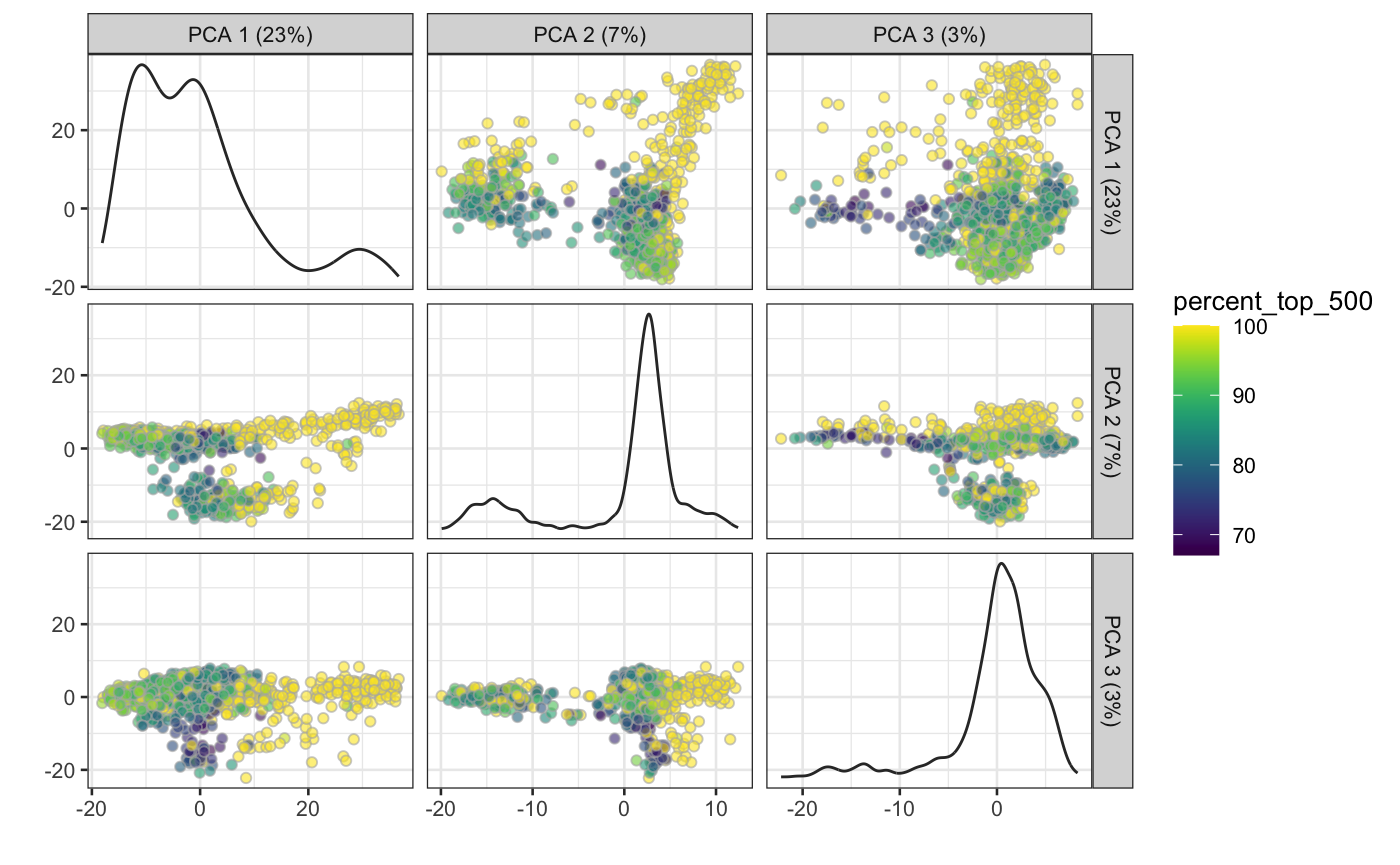
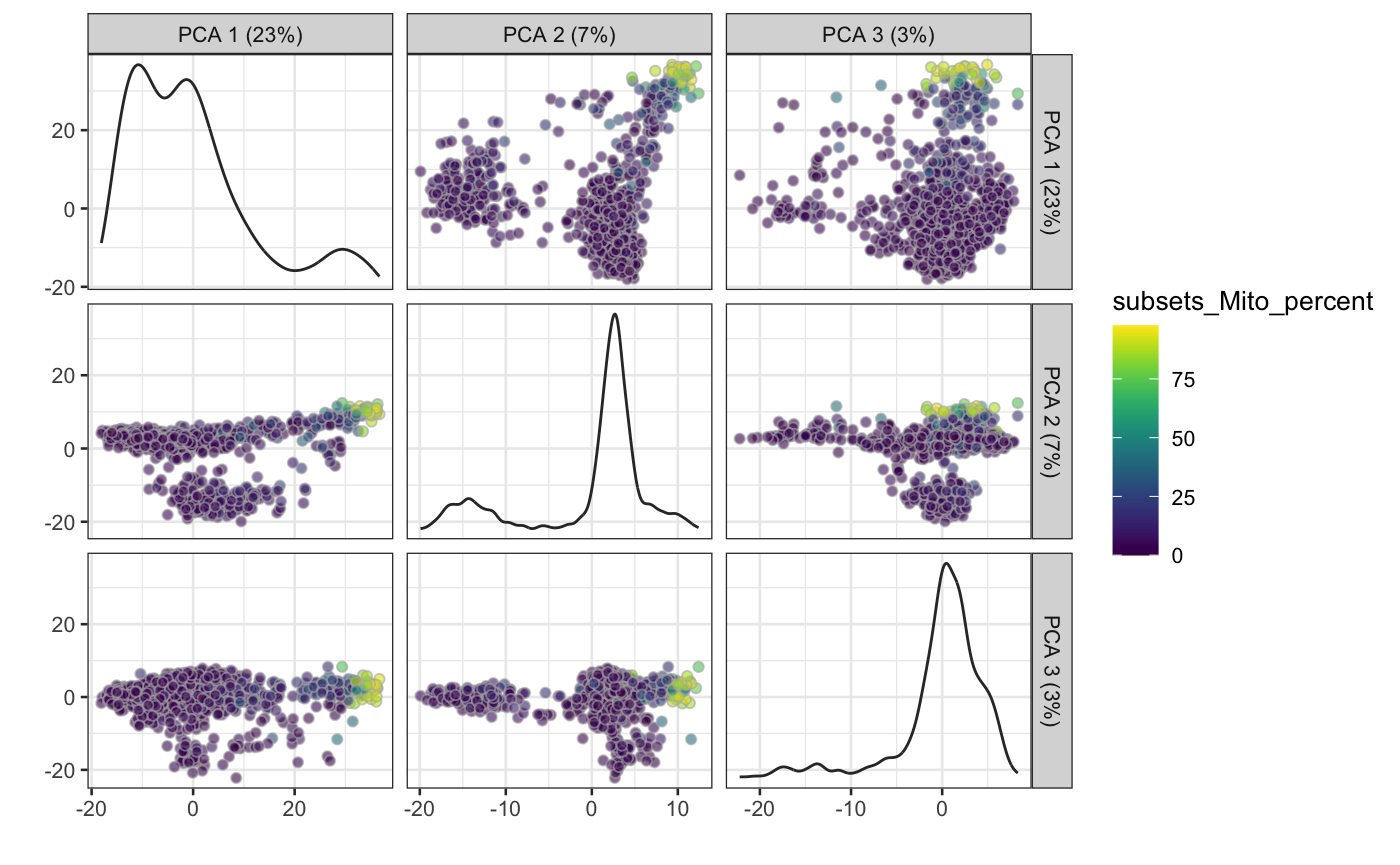
Built site for HCAData: 1.5.1@37fe858

Changed region(s): [[0.0614, 0.0, 0.9829, 0.9364], [0.0614, 0.0312, 0.215, 0.2809], [0.3686, 0.9052, 0.3993, 0.9364]]

diff --git a/articles/hcadata.html b/articles/hcadata.html
@@ -31,7 +31,7 @@
       </button>
       <span class="navbar-brand">
         <a class="navbar-link" href="../index.html">HCAData</a>
-        <span class="version label label-default" data-toggle="tooltip" data-placement="bottom" title="Released version">1.5.0</span>
+        <span class="version label label-default" data-toggle="tooltip" data-placement="bottom" title="Released version">1.5.1</span>
       </span>
     </div>
 
@@ -88,7 +88,7 @@
       Institute of Medical Biostatistics, Epidemiology and Informatics (IMBEI), Mainz<br><a class="author_email" href="mailto:#"></a><a href="mailto:marinif@uni-mainz.de" class="email">marinif@uni-mainz.de</a>
       </address>
                   
-            <h4 class="date">28 May 2020</h4>
+            <h4 class="date">11 June 2020</h4>
       
       <small class="dont-index">Source: <a href="https://github.com/federicomarini/HCAData/blob/master/vignettes/hcadata.Rmd"><code>vignettes/hcadata.Rmd</code></a></small>
       <div class="hidden name"><code>hcadata.Rmd</code></div>
@@ -97,7 +97,7 @@
 
     
     
-<p><strong>Compiled date</strong>: 2020-05-28</p>
+<p><strong>Compiled date</strong>: 2020-06-11</p>
 <p><strong>Last edited</strong>: 2019-05-24</p>
 <p><strong>License</strong>: MIT + file LICENSE</p>
 <div id="introducing-the-hcadata-package" class="section level1">
@@ -126,14 +126,14 @@
 <p>The output is a single <code>SingleCellExperiment</code> object from the <em><a href="https://bioconductor.org/packages/3.12/SingleCellExperiment">SingleCellExperiment</a></em> package.</p>
 <p>Being based on <em><a href="https://bioconductor.org/packages/3.12/ExperimentHub">ExperimentHub</a></em>, the data related to this package can be accessed and queried directly using the package name. Retrieval is then as easy as using their ExperimentHub accession numbers (for the single components of each set), or by using the convenience function provided in this package.</p>
 <div class="sourceCode" id="cb4"><html><body><pre class="r"><span class="fu"><a href="https://rdrr.io/r/base/message.html">suppressPackageStartupMessages</a></span>({
-  <span class="fu"><a href="https://rdrr.io/r/base/library.html">library</a></span>(<span class="no">ExperimentHub</span>)
-  <span class="fu"><a href="https://rdrr.io/r/base/library.html">library</a></span>(<span class="no">SingleCellExperiment</span>)
+  <span class="fu"><a href="https://rdrr.io/r/base/library.html">library</a></span>(<span class="st">"ExperimentHub"</span>)
+  <span class="fu"><a href="https://rdrr.io/r/base/library.html">library</a></span>(<span class="st">"SingleCellExperiment"</span>)
 })
 
 <span class="no">eh</span> <span class="kw">&lt;-</span> <span class="fu"><a href="https://rdrr.io/pkg/ExperimentHub/man/ExperimentHub-class.html">ExperimentHub</a></span>()
 <span class="fu">query</span>(<span class="no">eh</span>, <span class="st">"HCAData"</span>)
 <span class="co">#&gt; ExperimentHub with 6 records</span>
-<span class="co">#&gt; # snapshotDate(): 2020-05-19</span>
+<span class="co">#&gt; # snapshotDate(): 2020-06-11</span>
 <span class="co">#&gt; # $dataprovider: Human Cell Atlas</span>
 <span class="co">#&gt; # $species: Homo sapiens</span>
 <span class="co">#&gt; # $rdataclass: character</span>
@@ -202,22 +202,25 @@
 <a href="#processing-a-subset-of-the-hca-bone-marrow-data" class="anchor"></a>Processing a subset of the HCA bone marrow data</h2>
 <p>For the scope of the vignette, we subset some cells in the bone marrow dataset to reduce the runtime, and apply some of the steps one would ideally follow in analysing droplet based datasets. For more information on how to properly process such datasets, please refer to the amazing set of resources available in the <em><a href="https://bioconductor.org/packages/3.12/simpleSingleCell">simpleSingleCell</a></em> workflow package.</p>
 <p>In brief: we start loading the required libraries for preprocessing, and taking a subset of the bone marrow dataset</p>
-<div class="sourceCode" id="cb5"><html><body><pre class="r"><span class="fu"><a href="https://rdrr.io/r/base/library.html">library</a></span>(<span class="no">scran</span>)
-<span class="fu"><a href="https://rdrr.io/r/base/library.html">library</a></span>(<span class="no">BiocSingular</span>)
-<span class="fu"><a href="https://rdrr.io/r/base/library.html">library</a></span>(<span class="no">scater</span>)
+<div class="sourceCode" id="cb5"><html><body><pre class="r"><span class="fu"><a href="https://rdrr.io/r/base/library.html">library</a></span>(<span class="st">"scran"</span>)
+<span class="fu"><a href="https://rdrr.io/r/base/library.html">library</a></span>(<span class="st">"BiocSingular"</span>)
+<span class="fu"><a href="https://rdrr.io/r/base/library.html">library</a></span>(<span class="st">"scater"</span>)
+<span class="fu"><a href="https://rdrr.io/r/base/library.html">library</a></span>(<span class="st">"scuttle"</span>)
 
 <span class="fu"><a href="https://rdrr.io/r/base/Random.html">set.seed</a></span>(<span class="fl">42</span>)
 <span class="no">sce</span> <span class="kw">&lt;-</span> <span class="no">sce_bonemarrow</span>[, <span class="fu"><a href="https://rdrr.io/r/base/sample.html">sample</a></span>(<span class="fu"><a href="https://rdrr.io/r/base/seq.html">seq_len</a></span>(<span class="fu"><a href="https://rdrr.io/r/base/nrow.html">ncol</a></span>(<span class="no">sce_bonemarrow</span>)), <span class="fl">1000</span>, <span class="kw">replace</span> <span class="kw">=</span> <span class="fl">FALSE</span>)]</pre></body></html></div>
-<p>First, we relabel the rows with the gene symbols for easier reading with the <code><a href="https://rdrr.io/pkg/scater/man/uniquifyFeatureNames.html">uniquifyFeatureNames()</a></code> function from <em><a href="https://bioconductor.org/packages/3.12/scater">scater</a></em>. Then we compute some QC metrics and add these to the original <code>sce</code> object, using <code><a href="https://rdrr.io/pkg/scater/man/addPerCellQC.html">addPerCellQC()</a></code>.</p>
-<div class="sourceCode" id="cb6"><html><body><pre class="r"><span class="fu"><a href="https://rdrr.io/r/base/colnames.html">rownames</a></span>(<span class="no">sce</span>) <span class="kw">&lt;-</span> <span class="fu"><a href="https://rdrr.io/pkg/scater/man/uniquifyFeatureNames.html">uniquifyFeatureNames</a></span>(<span class="fu">rowData</span>(<span class="no">sce</span>)$<span class="no">ID</span>, <span class="fu">rowData</span>(<span class="no">sce</span>)$<span class="no">Symbol</span>)
+<p>First, we relabel the rows with the gene symbols for easier reading with the <code><a href="https://rdrr.io/pkg/scater/man/reexports.html">uniquifyFeatureNames()</a></code> function from <em><a href="https://bioconductor.org/packages/3.12/scater">scater</a></em>. Then we compute some QC metrics and add these to the original <code>sce</code> object, using <code><a href="https://rdrr.io/pkg/scater/man/reexports.html">addPerCellQC()</a></code>.</p>
+<div class="sourceCode" id="cb6"><html><body><pre class="r"><span class="fu"><a href="https://rdrr.io/r/base/colnames.html">rownames</a></span>(<span class="no">sce</span>) <span class="kw">&lt;-</span> <span class="fu"><a href="https://rdrr.io/pkg/scater/man/reexports.html">uniquifyFeatureNames</a></span>(<span class="fu">rowData</span>(<span class="no">sce</span>)$<span class="no">ID</span>, <span class="fu">rowData</span>(<span class="no">sce</span>)$<span class="no">Symbol</span>)
 <span class="fu"><a href="https://rdrr.io/r/utils/head.html">head</a></span>(<span class="fu"><a href="https://rdrr.io/r/base/colnames.html">rownames</a></span>(<span class="no">sce</span>))
 <span class="co">#&gt; [1] "RP11-34P13.3"  "FAM138A"       "OR4F5"         "RP11-34P13.7" </span>
 <span class="co">#&gt; [5] "RP11-34P13.8"  "RP11-34P13.14"</span>
 
+<span class="no">is.mito</span> <span class="kw">&lt;-</span> <span class="fu"><a href="https://rdrr.io/r/base/grep.html">grep</a></span>(<span class="st">"MT-"</span>, <span class="fu"><a href="https://rdrr.io/r/base/colnames.html">rownames</a></span>(<span class="no">sce</span>))
+
 <span class="fu"><a href="https://rdrr.io/pkg/SingleCellExperiment/man/assays.html">counts</a></span>(<span class="no">sce</span>) <span class="kw">&lt;-</span> <span class="fu"><a href="https://rdrr.io/r/base/matrix.html">as.matrix</a></span>(<span class="fu"><a href="https://rdrr.io/pkg/SingleCellExperiment/man/assays.html">counts</a></span>(<span class="no">sce</span>))
-<span class="no">sce</span> <span class="kw">&lt;-</span> <span class="kw pkg">scater</span><span class="kw ns">::</span><span class="fu"><a href="https://rdrr.io/pkg/scater/man/addPerCellQC.html">addPerCellQC</a></span>(<span class="no">sce</span>)</pre></body></html></div>
+<span class="no">sce</span> <span class="kw">&lt;-</span> <span class="kw pkg">scuttle</span><span class="kw ns">::</span><span class="fu"><a href="https://rdrr.io/pkg/scuttle/man/addPerCellQC.html">addPerCellQC</a></span>(<span class="no">sce</span>, <span class="kw">subsets</span><span class="kw">=</span><span class="fu"><a href="https://rdrr.io/r/base/list.html">list</a></span>(<span class="kw">Mito</span><span class="kw">=</span><span class="no">is.mito</span>))</pre></body></html></div>
 <p>We proceed with normalization, performed with the deconvolution method implemented in <em><a href="https://bioconductor.org/packages/3.12/scran">scran</a></em> - a pre-clustering step is done in advance, to avoid pooling cells that are very different between each other.</p>
-<div class="sourceCode" id="cb7"><html><body><pre class="r"><span class="no">lib.sf.bonemarrow</span> <span class="kw">&lt;-</span> <span class="fu"><a href="https://rdrr.io/pkg/scater/man/librarySizeFactors.html">librarySizeFactors</a></span>(<span class="no">sce</span>)
+<div class="sourceCode" id="cb7"><html><body><pre class="r"><span class="no">lib.sf.bonemarrow</span> <span class="kw">&lt;-</span> <span class="fu"><a href="https://rdrr.io/pkg/scater/man/reexports.html">librarySizeFactors</a></span>(<span class="no">sce</span>)
 <span class="fu"><a href="https://rdrr.io/r/base/summary.html">summary</a></span>(<span class="no">lib.sf.bonemarrow</span>)
 <span class="co">#&gt;    Min. 1st Qu.  Median    Mean 3rd Qu.    Max. </span>
 <span class="co">#&gt;  0.0157  0.3407  0.6291  1.0000  0.9087 18.0304</span>
@@ -229,7 +232,7 @@
 <span class="co">#&gt;   1   2   3   4   5 </span>
 <span class="co">#&gt; 137 232 207 239 185</span>
 <span class="no">sce</span> <span class="kw">&lt;-</span> <span class="fu"><a href="https://rdrr.io/pkg/scran/man/computeSumFactors.html">computeSumFactors</a></span>(<span class="no">sce</span>, <span class="kw">min.mean</span><span class="kw">=</span><span class="fl">0.1</span>, <span class="kw">cluster</span><span class="kw">=</span><span class="no">clusters</span>)
-<span class="no">sce</span> <span class="kw">&lt;-</span> <span class="fu"><a href="https://rdrr.io/pkg/scater/man/logNormCounts.html">logNormCounts</a></span>(<span class="no">sce</span>)
+<span class="no">sce</span> <span class="kw">&lt;-</span> <span class="fu"><a href="https://rdrr.io/pkg/scater/man/reexports.html">logNormCounts</a></span>(<span class="no">sce</span>)
 <span class="fu">assayNames</span>(<span class="no">sce</span>)
 <span class="co">#&gt; [1] "counts"    "logcounts"</span></pre></body></html></div>
 <p>In the following lines of code, we model the mean-variance trend (with technical noise as Poisson), to extract the biological component of the variance for the genes under inspection.</p>
@@ -258,19 +261,22 @@
 <div class="sourceCode" id="cb10"><html><body><pre class="r"><span class="no">hvg.bonemarrow</span> <span class="kw">&lt;-</span> <span class="fu"><a href="https://rdrr.io/pkg/scran/man/getTopHVGs.html">getTopHVGs</a></span>(<span class="no">dec.bonemarrow</span>, <span class="kw">prop</span> <span class="kw">=</span> <span class="fl">0.1</span>)
 
 <span class="fu"><a href="https://rdrr.io/r/base/Random.html">set.seed</a></span>(<span class="fl">42</span>)
-<span class="no">sce</span> <span class="kw">&lt;-</span> <span class="fu"><a href="https://rdrr.io/pkg/scran/man/denoisePCA.html">denoisePCA</a></span>(<span class="no">sce</span>, <span class="kw">technical</span><span class="kw">=</span><span class="no">dec.bonemarrow</span>, <span class="kw">subset.row</span> <span class="kw">=</span> <span class="no">hvg.bonemarrow</span>, <span class="kw">BSPARAM</span><span class="kw">=</span><span class="fu"><a href="https://rdrr.io/pkg/BiocSingular/man/BiocSingularParam.html">IrlbaParam</a></span>())
+<span class="no">sce</span> <span class="kw">&lt;-</span> <span class="fu"><a href="https://rdrr.io/pkg/scran/man/denoisePCA.html">denoisePCA</a></span>(<span class="no">sce</span>,
+                  <span class="kw">technical</span><span class="kw">=</span><span class="no">dec.bonemarrow</span>,
+                  <span class="kw">subset.row</span> <span class="kw">=</span> <span class="no">hvg.bonemarrow</span>,
+                  <span class="kw">BSPARAM</span><span class="kw">=</span><span class="fu"><a href="https://rdrr.io/pkg/BiocSingular/man/BiocSingularParam.html">IrlbaParam</a></span>())
 <span class="fu"><a href="https://rdrr.io/r/base/nrow.html">ncol</a></span>(<span class="fu"><a href="https://rdrr.io/pkg/SingleCellExperiment/man/reducedDims.html">reducedDim</a></span>(<span class="no">sce</span>, <span class="st">"PCA"</span>))
 <span class="co">#&gt; [1] 5</span>
 <span class="fu"><a href="https://rdrr.io/r/base/plot.html">plot</a></span>(<span class="fu"><a href="https://rdrr.io/r/base/attr.html">attr</a></span>(<span class="fu"><a href="https://rdrr.io/pkg/SingleCellExperiment/man/reducedDims.html">reducedDim</a></span>(<span class="no">sce</span>), <span class="st">"percentVar"</span>), <span class="kw">xlab</span><span class="kw">=</span><span class="st">"PC"</span>,
      <span class="kw">ylab</span><span class="kw">=</span><span class="st">"Proportion of variance explained"</span>)
 <span class="fu"><a href="https://rdrr.io/r/graphics/abline.html">abline</a></span>(<span class="kw">v</span><span class="kw">=</span><span class="fu"><a href="https://rdrr.io/r/base/nrow.html">ncol</a></span>(<span class="fu"><a href="https://rdrr.io/pkg/SingleCellExperiment/man/reducedDims.html">reducedDim</a></span>(<span class="no">sce</span>, <span class="st">"PCA"</span>)), <span class="kw">lty</span><span class="kw">=</span><span class="fl">2</span>, <span class="kw">col</span><span class="kw">=</span><span class="st">"red"</span>)</pre></body></html></div>
 <p><img src="hcadata_files/figure-html/dimred-1.png" width="700"></p>
-<div class="sourceCode" id="cb11"><html><body><pre class="r"><span class="fu"><a href="https://rdrr.io/pkg/scater/man/plot_reddim.html">plotPCA</a></span>(<span class="no">sce</span>, <span class="kw">ncomponents</span><span class="kw">=</span><span class="fl">3</span>, <span class="kw">colour_by</span><span class="kw">=</span><span class="st">"percent_top_500"</span>)</pre></body></html></div>
+<div class="sourceCode" id="cb11"><html><body><pre class="r"><span class="fu"><a href="https://rdrr.io/pkg/scater/man/plot_reddim.html">plotPCA</a></span>(<span class="no">sce</span>, <span class="kw">ncomponents</span><span class="kw">=</span><span class="fl">3</span>, <span class="kw">colour_by</span><span class="kw">=</span><span class="st">"subsets_Mito_percent"</span>)</pre></body></html></div>
 <p><img src="hcadata_files/figure-html/dimred-2.png" width="700"></p>
 <div class="sourceCode" id="cb12"><html><body><pre class="r">
 <span class="fu"><a href="https://rdrr.io/r/base/Random.html">set.seed</a></span>(<span class="fl">42</span>)
 <span class="no">sce</span> <span class="kw">&lt;-</span> <span class="fu"><a href="https://rdrr.io/pkg/scater/man/runTSNE.html">runTSNE</a></span>(<span class="no">sce</span>, <span class="kw">dimred</span><span class="kw">=</span><span class="st">"PCA"</span>, <span class="kw">perplexity</span><span class="kw">=</span><span class="fl">30</span>)
-<span class="fu"><a href="https://rdrr.io/pkg/scater/man/plot_reddim.html">plotTSNE</a></span>(<span class="no">sce</span>, <span class="kw">colour_by</span><span class="kw">=</span><span class="st">"percent_top_500"</span>)</pre></body></html></div>
+<span class="fu"><a href="https://rdrr.io/pkg/scater/man/plot_reddim.html">plotTSNE</a></span>(<span class="no">sce</span>, <span class="kw">colour_by</span><span class="kw">=</span><span class="st">"subsets_Mito_percent"</span>)</pre></body></html></div>
 <p><img src="hcadata_files/figure-html/dimred-3.png" width="700"></p>
 <p>After this, we can compute a shared nearest neighbour graph to identify clusters in our dataset. Once the cluster memberships are defined, we assign this vector to a corresponding <code>colData</code> slot, and plot the t-SNE for our subset, coloured accordingly.</p>
 <div class="sourceCode" id="cb13"><html><body><pre class="r"><span class="no">snn.gr</span> <span class="kw">&lt;-</span> <span class="fu"><a href="https://rdrr.io/pkg/scran/man/buildSNNGraph.html">buildSNNGraph</a></span>(<span class="no">sce</span>, <span class="kw">use.dimred</span><span class="kw">=</span><span class="st">"PCA"</span>)
@@ -308,7 +314,7 @@
 <div class="sourceCode" id="cb16"><html><body><pre class="r"><span class="fu"><a href="https://rdrr.io/r/utils/sessionInfo.html">sessionInfo</a></span>()
 <span class="co">#&gt; R version 4.0.0 (2020-04-24)</span>
 <span class="co">#&gt; Platform: x86_64-apple-darwin17.0 (64-bit)</span>
-<span class="co">#&gt; Running under: macOS Catalina 10.15.4</span>
+<span class="co">#&gt; Running under: macOS Catalina 10.15.5</span>
 <span class="co">#&gt; </span>
 <span class="co">#&gt; Matrix products: default</span>
 <span class="co">#&gt; BLAS:   /Library/Frameworks/R.framework/Versions/4.0/Resources/lib/libRblas.dylib</span>
@@ -322,17 +328,18 @@
 <span class="co">#&gt; [8] methods   base     </span>
 <span class="co">#&gt; </span>
 <span class="co">#&gt; other attached packages:</span>
-<span class="co">#&gt;  [1] scater_1.17.0               ggplot2_3.3.0              </span>
-<span class="co">#&gt;  [3] BiocSingular_1.5.0          scran_1.17.0               </span>
-<span class="co">#&gt;  [5] rhdf5_2.33.0                ExperimentHub_1.15.0       </span>
-<span class="co">#&gt;  [7] AnnotationHub_2.21.0        BiocFileCache_1.13.0       </span>
-<span class="co">#&gt;  [9] dbplyr_1.4.4                HCAData_1.5.0              </span>
-<span class="co">#&gt; [11] SingleCellExperiment_1.11.1 SummarizedExperiment_1.19.4</span>
-<span class="co">#&gt; [13] DelayedArray_0.15.1         matrixStats_0.56.0         </span>
-<span class="co">#&gt; [15] Biobase_2.49.0              GenomicRanges_1.41.1       </span>
-<span class="co">#&gt; [17] GenomeInfoDb_1.25.0         IRanges_2.23.5             </span>
-<span class="co">#&gt; [19] S4Vectors_0.27.8            BiocGenerics_0.35.2        </span>
-<span class="co">#&gt; [21] BiocStyle_2.17.0           </span>
+<span class="co">#&gt;  [1] scuttle_0.99.9              scater_1.17.2              </span>
+<span class="co">#&gt;  [3] ggplot2_3.3.1               BiocSingular_1.5.0         </span>
+<span class="co">#&gt;  [5] scran_1.17.1                rhdf5_2.33.3               </span>
+<span class="co">#&gt;  [7] ExperimentHub_1.15.0        AnnotationHub_2.21.0       </span>
+<span class="co">#&gt;  [9] BiocFileCache_1.13.0        dbplyr_1.4.4               </span>
+<span class="co">#&gt; [11] HCAData_1.5.1               SingleCellExperiment_1.11.4</span>
+<span class="co">#&gt; [13] SummarizedExperiment_1.19.5 DelayedArray_0.15.3        </span>
+<span class="co">#&gt; [15] matrixStats_0.56.0          Matrix_1.2-18              </span>
+<span class="co">#&gt; [17] Biobase_2.49.0              GenomicRanges_1.41.5       </span>
+<span class="co">#&gt; [19] GenomeInfoDb_1.25.1         IRanges_2.23.9             </span>
+<span class="co">#&gt; [21] S4Vectors_0.27.12           BiocGenerics_0.35.4        </span>
+<span class="co">#&gt; [23] BiocStyle_2.17.0           </span>
 <span class="co">#&gt; </span>
 <span class="co">#&gt; loaded via a namespace (and not attached):</span>
 <span class="co">#&gt;  [1] bitops_1.0-6                  fs_1.4.1                     </span>
@@ -340,46 +347,46 @@
 <span class="co">#&gt;  [5] rprojroot_1.3-2               tools_4.0.0                  </span>
 <span class="co">#&gt;  [7] backports_1.1.7               R6_2.4.1                     </span>
 <span class="co">#&gt;  [9] irlba_2.3.3                   vipor_0.4.5                  </span>
-<span class="co">#&gt; [11] HDF5Array_1.17.0              colorspace_1.4-1             </span>
-<span class="co">#&gt; [13] DBI_1.1.0                     withr_2.2.0                  </span>
-<span class="co">#&gt; [15] gridExtra_2.3                 tidyselect_1.1.0             </span>
-<span class="co">#&gt; [17] bit_1.1-15.2                  curl_4.3                     </span>
-<span class="co">#&gt; [19] compiler_4.0.0                BiocNeighbors_1.7.0          </span>
-<span class="co">#&gt; [21] desc_1.2.0                    labeling_0.3                 </span>
-<span class="co">#&gt; [23] bookdown_0.19                 scales_1.1.1                 </span>
-<span class="co">#&gt; [25] rappdirs_0.3.1                pkgdown_1.5.1.9000           </span>
-<span class="co">#&gt; [27] stringr_1.4.0                 digest_0.6.25                </span>
-<span class="co">#&gt; [29] rmarkdown_2.1                 XVector_0.29.1               </span>
-<span class="co">#&gt; [31] pkgconfig_2.0.3               htmltools_0.4.0              </span>
-<span class="co">#&gt; [33] fastmap_1.0.1                 limma_3.45.0                 </span>
-<span class="co">#&gt; [35] rlang_0.4.6                   RSQLite_2.2.0                </span>
-<span class="co">#&gt; [37] shiny_1.4.0.2                 DelayedMatrixStats_1.11.0    </span>
-<span class="co">#&gt; [39] farver_2.0.3                  BiocParallel_1.23.0          </span>
-<span class="co">#&gt; [41] dplyr_0.8.5                   RCurl_1.98-1.2               </span>
-<span class="co">#&gt; [43] magrittr_1.5                  GenomeInfoDbData_1.2.3       </span>
-<span class="co">#&gt; [45] Matrix_1.2-18                 munsell_0.5.0                </span>
-<span class="co">#&gt; [47] ggbeeswarm_0.6.0              Rcpp_1.0.4.6                 </span>
-<span class="co">#&gt; [49] Rhdf5lib_1.11.0               viridis_0.5.1                </span>
-<span class="co">#&gt; [51] lifecycle_0.2.0               stringi_1.4.6                </span>
-<span class="co">#&gt; [53] yaml_2.2.1                    edgeR_3.31.0                 </span>
-<span class="co">#&gt; [55] MASS_7.3-51.5                 zlibbioc_1.35.0              </span>
-<span class="co">#&gt; [57] Rtsne_0.15                    grid_4.0.0                   </span>
-<span class="co">#&gt; [59] blob_1.2.1                    promises_1.1.0               </span>
-<span class="co">#&gt; [61] dqrng_0.2.1                   crayon_1.3.4                 </span>
-<span class="co">#&gt; [63] lattice_0.20-41               locfit_1.5-9.4               </span>
-<span class="co">#&gt; [65] knitr_1.28                    pillar_1.4.4                 </span>
-<span class="co">#&gt; [67] igraph_1.2.5                  glue_1.4.1                   </span>
-<span class="co">#&gt; [69] BiocVersion_3.12.0            evaluate_0.14                </span>
-<span class="co">#&gt; [71] BiocManager_1.30.10           vctrs_0.3.0                  </span>
-<span class="co">#&gt; [73] httpuv_1.5.3.1                gtable_0.3.0                 </span>
-<span class="co">#&gt; [75] purrr_0.3.4                   assertthat_0.2.1             </span>
-<span class="co">#&gt; [77] xfun_0.14                     rsvd_1.0.3                   </span>
-<span class="co">#&gt; [79] mime_0.9                      xtable_1.8-4                 </span>
-<span class="co">#&gt; [81] later_1.0.0                   viridisLite_0.3.0            </span>
-<span class="co">#&gt; [83] tibble_3.0.1                  beeswarm_0.2.3               </span>
-<span class="co">#&gt; [85] AnnotationDbi_1.51.0          memoise_1.1.0                </span>
-<span class="co">#&gt; [87] statmod_1.4.34                ellipsis_0.3.1               </span>
-<span class="co">#&gt; [89] interactiveDisplayBase_1.27.2</span></pre></body></html></div>
+<span class="co">#&gt; [11] HDF5Array_1.17.1              colorspace_1.4-1             </span>
+<span class="co">#&gt; [13] DBI_1.1.0                     rhdf5filters_1.1.0           </span>
+<span class="co">#&gt; [15] withr_2.2.0                   gridExtra_2.3                </span>
+<span class="co">#&gt; [17] tidyselect_1.1.0              bit_1.1-15.2                 </span>
+<span class="co">#&gt; [19] curl_4.3                      compiler_4.0.0               </span>
+<span class="co">#&gt; [21] BiocNeighbors_1.7.0           desc_1.2.0                   </span>
+<span class="co">#&gt; [23] labeling_0.3                  bookdown_0.19                </span>
+<span class="co">#&gt; [25] scales_1.1.1                  rappdirs_0.3.1               </span>
+<span class="co">#&gt; [27] pkgdown_1.5.1.9000            stringr_1.4.0                </span>
+<span class="co">#&gt; [29] digest_0.6.25                 rmarkdown_2.2                </span>
+<span class="co">#&gt; [31] XVector_0.29.2                pkgconfig_2.0.3              </span>
+<span class="co">#&gt; [33] htmltools_0.4.0               fastmap_1.0.1                </span>
+<span class="co">#&gt; [35] limma_3.45.6                  rlang_0.4.6                  </span>
+<span class="co">#&gt; [37] RSQLite_2.2.0                 shiny_1.4.0.2                </span>
+<span class="co">#&gt; [39] DelayedMatrixStats_1.11.0     farver_2.0.3                 </span>
+<span class="co">#&gt; [41] generics_0.0.2                BiocParallel_1.23.0          </span>
+<span class="co">#&gt; [43] dplyr_1.0.0                   RCurl_1.98-1.2               </span>
+<span class="co">#&gt; [45] magrittr_1.5                  GenomeInfoDbData_1.2.3       </span>
+<span class="co">#&gt; [47] ggbeeswarm_0.6.0              munsell_0.5.0                </span>
+<span class="co">#&gt; [49] Rcpp_1.0.4.6                  Rhdf5lib_1.11.1              </span>
+<span class="co">#&gt; [51] viridis_0.5.1                 lifecycle_0.2.0              </span>
+<span class="co">#&gt; [53] stringi_1.4.6                 yaml_2.2.1                   </span>
+<span class="co">#&gt; [55] edgeR_3.31.4                  MASS_7.3-51.5                </span>
+<span class="co">#&gt; [57] zlibbioc_1.35.0               Rtsne_0.15                   </span>
+<span class="co">#&gt; [59] grid_4.0.0                    blob_1.2.1                   </span>
+<span class="co">#&gt; [61] promises_1.1.1                dqrng_0.2.1                  </span>
+<span class="co">#&gt; [63] crayon_1.3.4                  lattice_0.20-41              </span>
+<span class="co">#&gt; [65] locfit_1.5-9.4                knitr_1.28                   </span>
+<span class="co">#&gt; [67] pillar_1.4.4                  igraph_1.2.5                 </span>
+<span class="co">#&gt; [69] glue_1.4.1                    BiocVersion_3.12.0           </span>
+<span class="co">#&gt; [71] evaluate_0.14                 BiocManager_1.30.10          </span>
+<span class="co">#&gt; [73] vctrs_0.3.1                   httpuv_1.5.4                 </span>
+<span class="co">#&gt; [75] gtable_0.3.0                  purrr_0.3.4                  </span>
+<span class="co">#&gt; [77] assertthat_0.2.1              xfun_0.14                    </span>
+<span class="co">#&gt; [79] rsvd_1.0.3                    mime_0.9                     </span>
+<span class="co">#&gt; [81] xtable_1.8-4                  later_1.1.0.1                </span>
+<span class="co">#&gt; [83] viridisLite_0.3.0             tibble_3.0.1                 </span>
+<span class="co">#&gt; [85] beeswarm_0.2.3                AnnotationDbi_1.51.0         </span>
+<span class="co">#&gt; [87] memoise_1.1.0                 statmod_1.4.34               </span>
+<span class="co">#&gt; [89] ellipsis_0.3.1                interactiveDisplayBase_1.27.5</span></pre></body></html></div>
 </div>
   </div>
 

diff --git a/reference/HCAData.html b/reference/HCAData.html
@@ -74,7 +74,7 @@ SingleCellExperiment object" />
       </button>
       <span class="navbar-brand">
         <a class="navbar-link" href="../index.html">HCAData</a>
-        <span class="version label label-default" data-toggle="tooltip" data-placement="bottom" title="Released version">1.5.0</span>
+        <span class="version label label-default" data-toggle="tooltip" data-placement="bottom" title="Released version">1.5.1</span>
       </span>
     </div>
 
@@ -168,7 +168,7 @@ metadata are also provided.</p>
     <h2 class="hasAnchor" id="examples"><a class="anchor" href="#examples"></a>Examples</h2>
     <pre class="examples"><div class='input'><span class='fu'>HCAData</span>()</div><div class='output co'>#&gt; <span class='message'>No dataset name provided, please choose one of the following: </span>
 #&gt; <span class='message'>ica_bone_marrow</span>
-#&gt; <span class='message'>ica_cord_blood</span></div><div class='input'><span class='no'>sce_cordblood</span> <span class='kw'>&lt;-</span> <span class='fu'>HCAData</span>(<span class='st'>"ica_cord_blood"</span>)</div><div class='output co'>#&gt; <span class='message'>Retrieving Human Cell Atlas dataset: ica_cord_blood</span></div><div class='output co'>#&gt; <span class='message'>using temporary cache /var/folders/24/8k48jl6d249_n_qfxwsl6xvm0000gn/T//RtmpxytsgK/BiocFileCache</span></div><div class='output co'>#&gt; <span class='message'>snapshotDate(): 2020-05-19</span></div><div class='output co'>#&gt; <span class='message'>see ?HCAData and browseVignettes('HCAData') for documentation</span></div><div class='output co'>#&gt; <span class='message'>downloading 1 resources</span></div><div class='output co'>#&gt; <span class='message'>retrieving 1 resource</span></div><div class='output co'>#&gt; <span class='message'>loading from cache</span></div></pre>
+#&gt; <span class='message'>ica_cord_blood</span></div><div class='input'><span class='no'>sce_cordblood</span> <span class='kw'>&lt;-</span> <span class='fu'>HCAData</span>(<span class='st'>"ica_cord_blood"</span>)</div><div class='output co'>#&gt; <span class='message'>Retrieving Human Cell Atlas dataset: ica_cord_blood</span></div><div class='output co'>#&gt; <span class='message'>using temporary cache /var/folders/24/8k48jl6d249_n_qfxwsl6xvm0000gn/T//RtmpfkUvYq/BiocFileCache</span></div><div class='output co'>#&gt; <span class='message'>snapshotDate(): 2020-06-11</span></div><div class='output co'>#&gt; <span class='message'>see ?HCAData and browseVignettes('HCAData') for documentation</span></div><div class='output co'>#&gt; <span class='message'>downloading 1 resources</span></div><div class='output co'>#&gt; <span class='message'>retrieving 1 resource</span></div><div class='output co'>#&gt; <span class='message'>loading from cache</span></div></pre>
   </div>
   <div class="col-md-3 hidden-xs hidden-sm" id="pkgdown-sidebar">
     <nav id="toc" data-toggle="toc" class="sticky-top">

diff --git a/reference/HCAData-pkg.html b/reference/HCAData-pkg.html
@@ -73,7 +73,7 @@ RNA-seq data from the Human Cell Atlas project (https://www.humancellatlas.org)"
       </button>
       <span class="navbar-brand">
         <a class="navbar-link" href="../index.html">HCAData</a>
-        <span class="version label label-default" data-toggle="tooltip" data-placement="bottom" title="Released version">1.5.0</span>
+        <span class="version label label-default" data-toggle="tooltip" data-placement="bottom" title="Released version">1.5.1</span>
       </span>
     </div>
 
@@ -142,6 +142,9 @@ RNA-seq data from the Human Cell Atlas project (<a href='https://www.humancellat
 (Human Cell Atlas Data Portal, <a href='https://preview.data.humancellatlas.org'>https://preview.data.humancellatlas.org</a>) as well
 (plus the related publications, which will be listed here when they will be out),
 which are licensed under a Creative Commons Attribution 4.0 International License.</p>
+    <h2 class="hasAnchor" id="author"><a class="anchor" href="#author"></a>Author</h2>
+
+    <p>Federico Marini <a href='mailto:marinif@uni-mainz.de'>marinif@uni-mainz.de</a></p>
 
   </div>
   <div class="col-md-3 hidden-xs hidden-sm" id="pkgdown-sidebar">

diff --git a/articles/index.html b/articles/index.html
@@ -71,7 +71,7 @@
       </button>
       <span class="navbar-brand">
         <a class="navbar-link" href="../index.html">HCAData</a>
-        <span class="version label label-default" data-toggle="tooltip" data-placement="bottom" title="Released version">1.5.0</span>
+        <span class="version label label-default" data-toggle="tooltip" data-placement="bottom" title="Released version">1.5.1</span>
       </span>
     </div>
 

diff --git a/news/index.html b/news/index.html
@@ -71,7 +71,7 @@
       </button>
       <span class="navbar-brand">
         <a class="navbar-link" href="../index.html">HCAData</a>
-        <span class="version label label-default" data-toggle="tooltip" data-placement="bottom" title="Released version">1.5.0</span>
+        <span class="version label label-default" data-toggle="tooltip" data-placement="bottom" title="Released version">1.5.1</span>
       </span>
     </div>
 

diff --git a/reference/index.html b/reference/index.html
@@ -71,7 +71,7 @@
       </button>
       <span class="navbar-brand">
         <a class="navbar-link" href="../index.html">HCAData</a>
-        <span class="version label label-default" data-toggle="tooltip" data-placement="bottom" title="Released version">1.5.0</span>
+        <span class="version label label-default" data-toggle="tooltip" data-placement="bottom" title="Released version">1.5.1</span>
       </span>
     </div>
 

diff --git a/404.html b/404.html
@@ -71,7 +71,7 @@
       </button>
       <span class="navbar-brand">
         <a class="navbar-link" href="index.html">HCAData</a>
-        <span class="version label label-default" data-toggle="tooltip" data-placement="bottom" title="Released version">1.5.0</span>
+        <span class="version label label-default" data-toggle="tooltip" data-placement="bottom" title="Released version">1.5.1</span>
       </span>
     </div>
 

diff --git a/LICENSE-text.html b/LICENSE-text.html
@@ -71,7 +71,7 @@
       </button>
       <span class="navbar-brand">
         <a class="navbar-link" href="index.html">HCAData</a>
-        <span class="version label label-default" data-toggle="tooltip" data-placement="bottom" title="Released version">1.5.0</span>
+        <span class="version label label-default" data-toggle="tooltip" data-placement="bottom" title="Released version">1.5.1</span>
       </span>
     </div>
 

diff --git a/LICENSE.html b/LICENSE.html
@@ -71,7 +71,7 @@
       </button>
       <span class="navbar-brand">
         <a class="navbar-link" href="index.html">HCAData</a>
-        <span class="version label label-default" data-toggle="tooltip" data-placement="bottom" title="Released version">1.5.0</span>
+        <span class="version label label-default" data-toggle="tooltip" data-placement="bottom" title="Released version">1.5.1</span>
       </span>
     </div>
 

diff --git a/TODO.html b/TODO.html
@@ -71,7 +71,7 @@
       </button>
       <span class="navbar-brand">
         <a class="navbar-link" href="index.html">HCAData</a>
-        <span class="version label label-default" data-toggle="tooltip" data-placement="bottom" title="Released version">1.5.0</span>
+        <span class="version label label-default" data-toggle="tooltip" data-placement="bottom" title="Released version">1.5.1</span>
       </span>
     </div>
 

diff --git a/authors.html b/authors.html
@@ -71,7 +71,7 @@
       </button>
       <span class="navbar-brand">
         <a class="navbar-link" href="index.html">HCAData</a>
-        <span class="version label label-default" data-toggle="tooltip" data-placement="bottom" title="Released version">1.5.0</span>
+        <span class="version label label-default" data-toggle="tooltip" data-placement="bottom" title="Released version">1.5.1</span>
       </span>
     </div>
 

diff --git a/index.html b/index.html
@@ -34,7 +34,7 @@
       </button>
       <span class="navbar-brand">
         <a class="navbar-link" href="index.html">HCAData</a>
-        <span class="version label label-default" data-toggle="tooltip" data-placement="bottom" title="Released version">1.5.0</span>
+        <span class="version label label-default" data-toggle="tooltip" data-placement="bottom" title="Released version">1.5.1</span>
       </span>
     </div>
 
